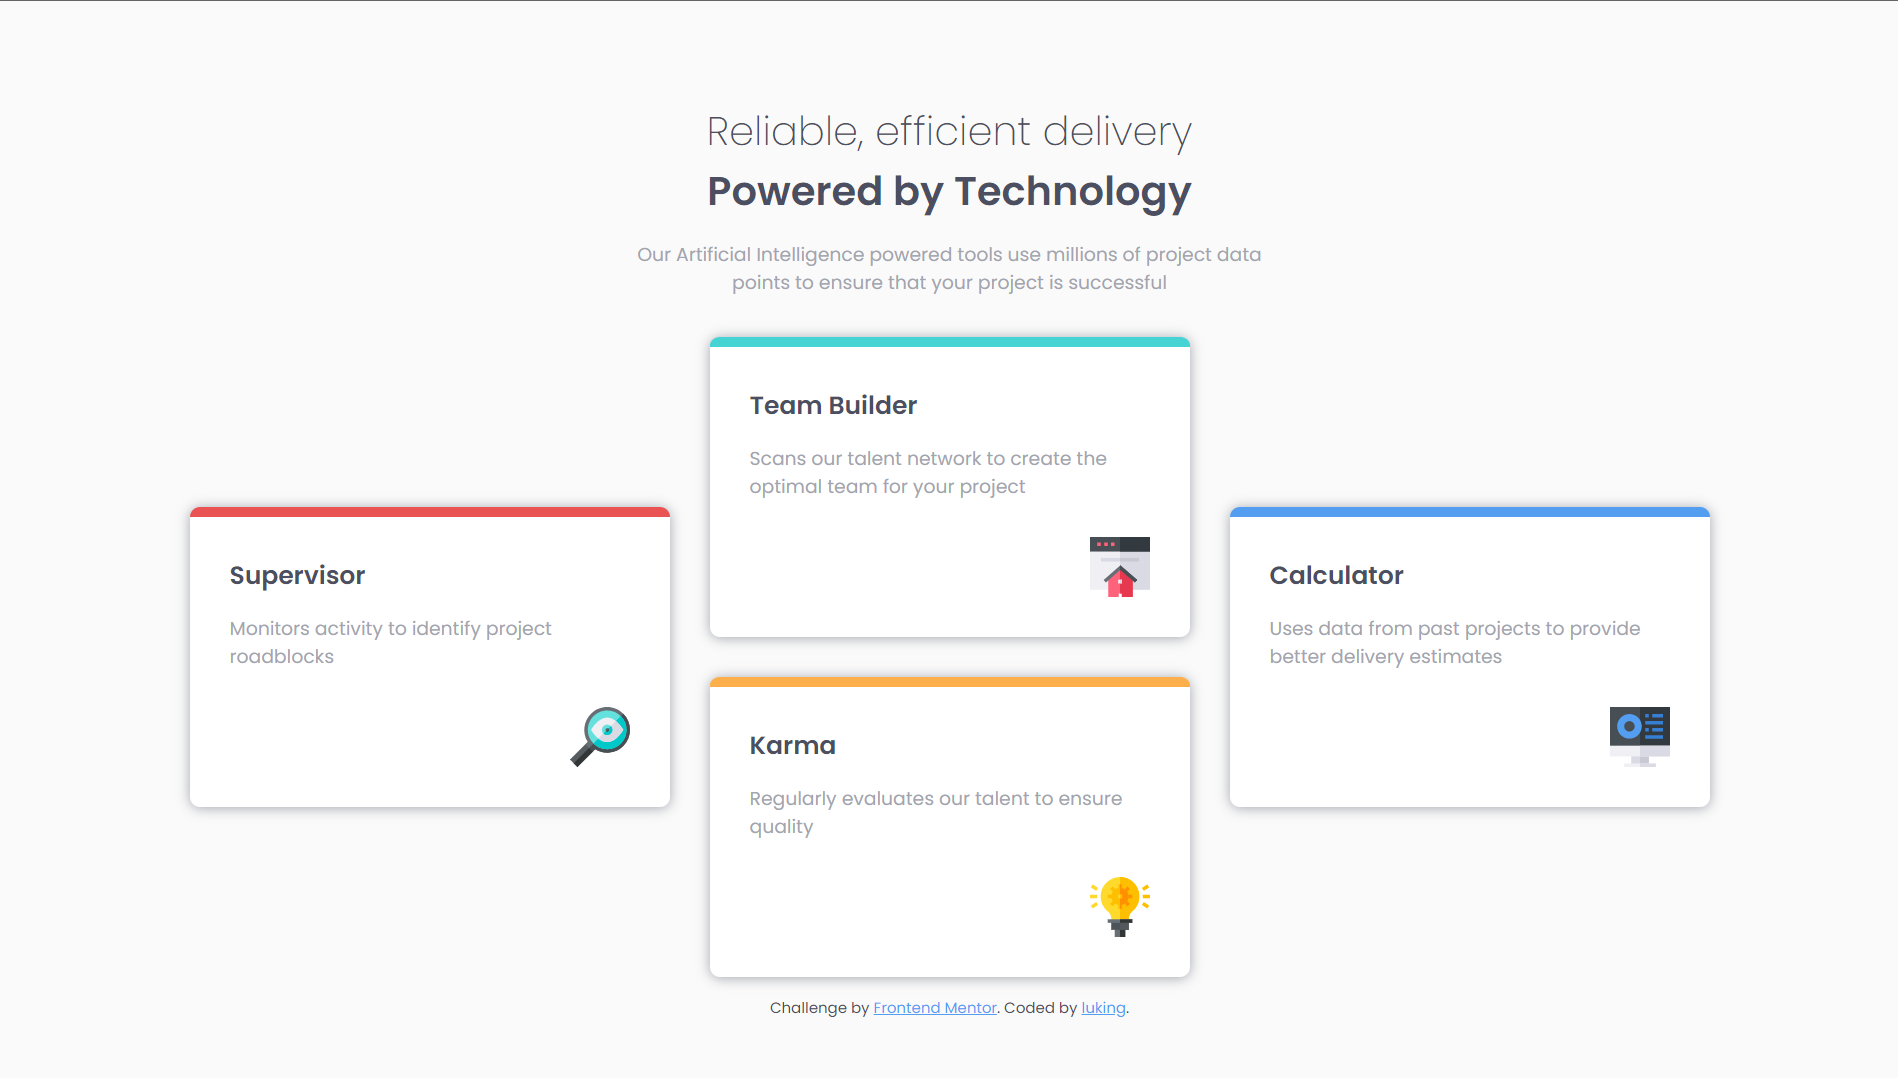
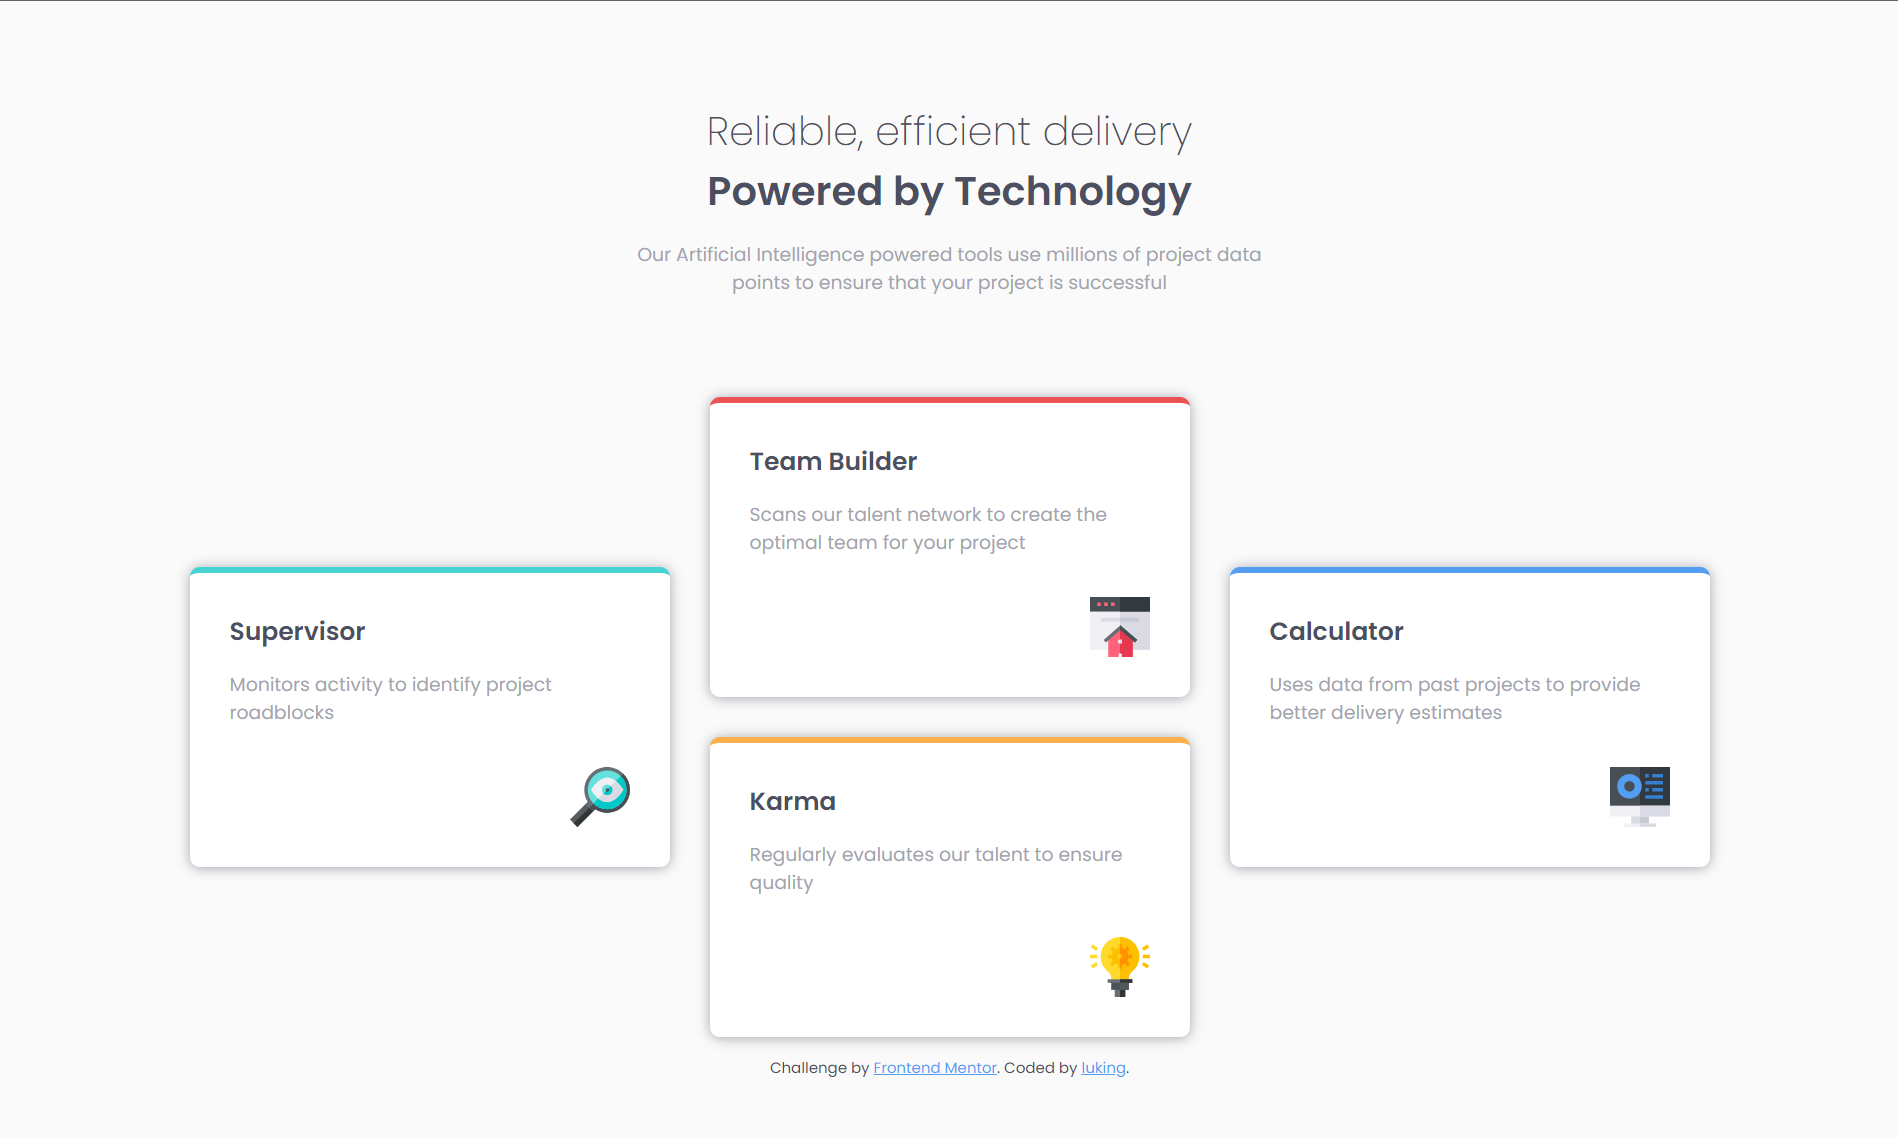
update css

diff --git a/four-card-feature-section/style.css b/four-card-feature-section/style.css
@@ -73,10 +73,12 @@ main {
 
 /* text-box styles */
 .text-box {
+  --mb: 2rem;
+
   max-width: 500px;
   text-align: center;
   margin-top: 3rem;
-  margin-bottom: 2rem;
+  margin-bottom: var(--mb);
 }
 
 h1 {
@@ -87,6 +89,10 @@ h1 {
 }
 
 @media (min-width: 1200px) {
+  .text-box {
+    --mb: 5rem;
+  }
+
   h1 {
     font-size: 2rem;
   }
@@ -112,15 +118,15 @@ h1 span {
   position: relative;
   height: var(--card-height);
   max-width: var(--card-width);
-  border-top: 0.5rem solid;
+  border-top: 5px solid;
 }
 
 .card:nth-child(1) {
-  border-color: var(--clr-primary-1);
+  border-color: var(--clr-primary-2);
 }
 
 .card:nth-child(2) {
-  border-color: var(--clr-primary-2);
+  border-color: var(--clr-primary-1);
 }
 
 .card:nth-child(3) {
